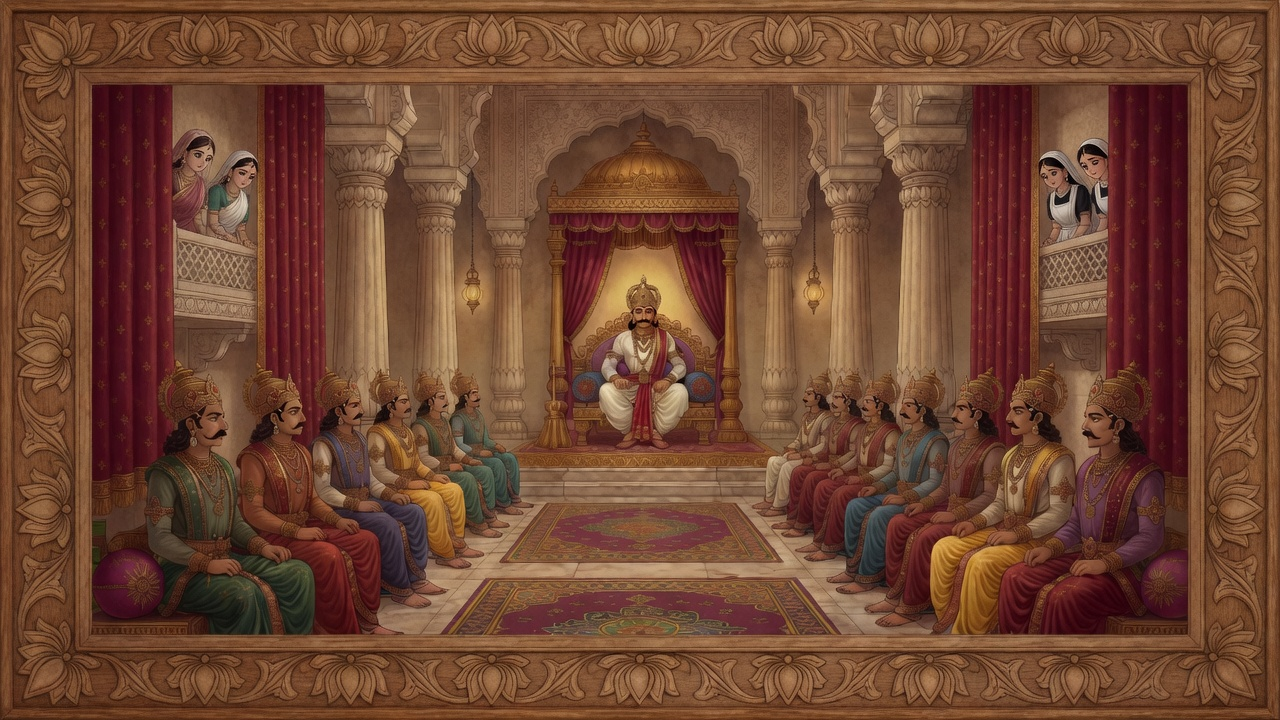
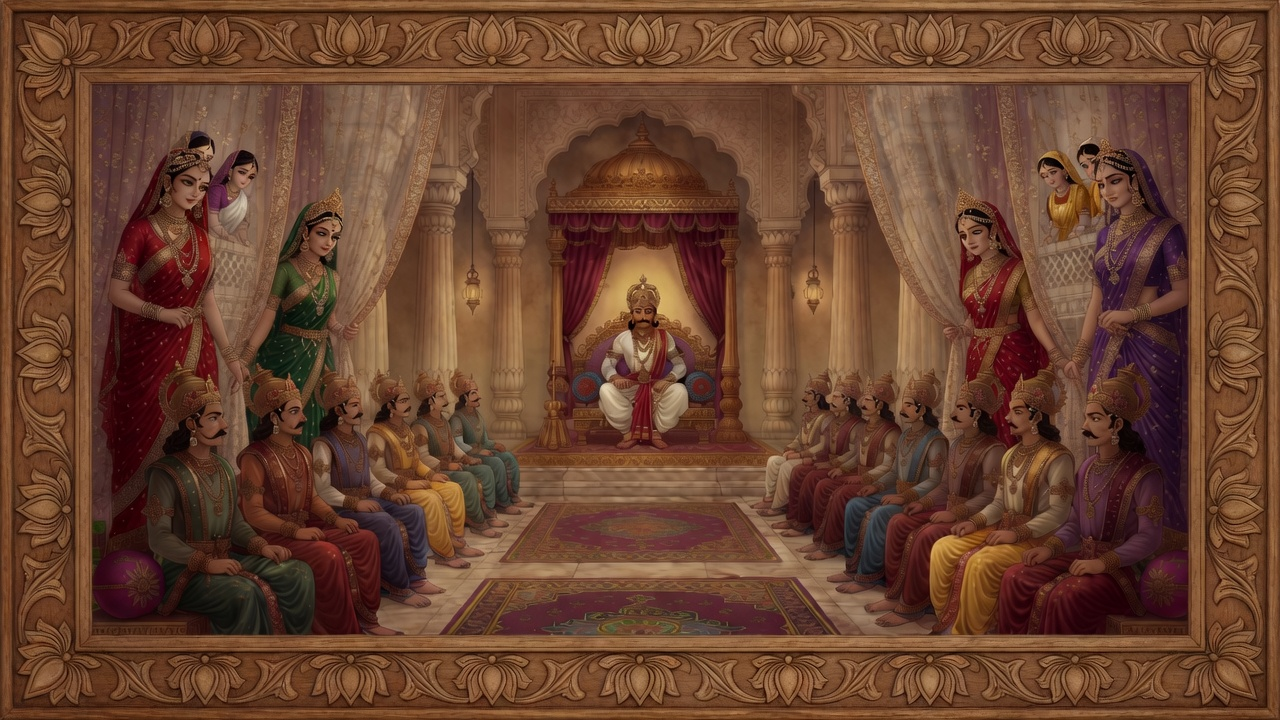
fix(mahabharata): aim pool/left layout, princesses-only, hit arrow side
Aim: Arjuna left on dry floor beside pool, high-quality large tank.
Durbar: all women as princesses behind curtains. Hit: arrow from
Arjuna's side; quality pass. Logic gate: no standing in pool, arrow side.

diff --git a/mahabharata/episodes/02-swayamvara/script.js b/mahabharata/episodes/02-swayamvara/script.js
@@ -12,7 +12,7 @@ export const EPISODE = {
   voice: {
     provider: "grok-tts",
     voice_id: "orion",
-    cache: "ep02-v6-curtain-largetank",
+    cache: "ep02-v7-aim-hit",
     note: "Grok TTS orion — v4 ceiling-high aquarium + split aim geometry",
     base: "episodes/02-swayamvara/audio/",
   },

diff --git a/mahabharata/play.html b/mahabharata/play.html
@@ -67,6 +67,6 @@
     </div>
   </div>
 
-  <script type="module" src="js/main.js?v=ep02-curtain-largetank-v6"></script>
+  <script type="module" src="js/main.js?v=ep02-aim-hit-v7"></script>
 </body>
 </html>

diff --git a/mahabharata/tools/logic_review.py b/mahabharata/tools/logic_review.py
@@ -304,6 +304,32 @@ def check_plate(plate: dict, cast_ids: set[str], apparatus_on: bool) -> list[str
             fails.append(
                 f"{pid}: aim geometry FAIL — arrow must not target the pool; pool is mirror only"
             )
+        # Never stand in the reflection pool
+        if re.search(r"\bstand(ing|s)?\b.{0,25}\bin\b.{0,15}\b(the )?(pool|water)\b", field, re.I):
+            if not re.search(r"\b(not|never|no)\b.{0,20}\bstand", field, re.I) and not re.search(
+                r"\b(beside|next to|outside)\b.{0,15}\bpool\b", field, re.I
+            ):
+                fails.append(f"{pid}: aim FAIL — archer must not stand in the pool (stand beside it)")
+        if not re.search(r"\b(beside|next to|outside|dry floor|left side)\b", field, re.I):
+            fails.append(
+                f"{pid}: aim FAIL — must place archer on dry floor beside pool (prefer left side)"
+            )
+
+    # Hit beat: arrow must come from same side as archer
+    if plate.get("id") == "hit" or re.search(r"\bhit\b|arrow (strikes|hits)", positive, re.I):
+        if plate.get("has_fish_apparatus") and re.search(r"\barrow\b", positive, re.I):
+            if re.search(r"\b(opposite side|from the right while.{0,20}left|wrong side)\b", positive, re.I):
+                fails.append(f"{pid}: hit FAIL — arrow must enter from archer's side, not opposite")
+            if not re.search(
+                r"\b(from (the )?(left|archer)|same side|toward|upward into)\b",
+                positive,
+                re.I,
+            ):
+                # soft: require some path wording when hit plate
+                if plate.get("id") == "hit":
+                    fails.append(
+                        f"{pid}: hit FAIL — must specify arrow path from archer's position into the fish"
+                    )
 
     for cid in plate.get("cast_present") or []:
         if cid not in cast_ids:

diff --git a/mahabharata/docs/PANEL_LOGIC.md b/mahabharata/docs/PANEL_LOGIC.md
@@ -70,6 +70,14 @@ The challenge is **optically inverted**. The logic agent must verify **both** ha
 
 **PASS when:** head/eyes → pool below; bow/arrow → aquarium above; tank is the **same large ceiling disc** as the challenge lock, high under the roof.
 
+**Stage layout (aim / hit):**
+
+| Rule | Detail |
+|------|--------|
+| Pool is empty | Archer stands on **dry floor beside** the pool — **never in** the water |
+| Preferred composition | Archer on the **left**; aquarium **top center**; pool mid/bottom center |
+| Hit arrow path | Arrow enters the fish from the **same side** as Arjuna (left → up), not the opposite side |
+
 ### 4. Character lock
 
 | Check | Rule |

diff --git a/mahabharata/episodes/02-swayamvara/logic-reviews/RR-gateB-bible.md b/mahabharata/episodes/02-swayamvara/logic-reviews/RR-gateB-bible.md
@@ -1,9 +1,15 @@
 # Logic review — Ep 02 — GATE B (plate bible)
-Status: PASS
+Status: FAIL
 Reviewer: panel-logic agent (tools/logic_review.py)
 
 Plates: 9
 
-## Result
-All automated checks passed.
+## Blocking issues
+
+1. aim: fish apparatus must encode ceiling_height
+2. aim: aim geometry FAIL — arrow must not target the pool; pool is mirror only
+3. hit: hit FAIL — arrow must enter from archer's side, not opposite
+
+## Required fixes before Imagine
+Resolve every blocking issue in plate-bible.json, re-run this tool.
 
